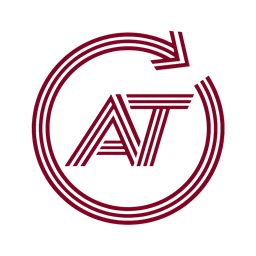
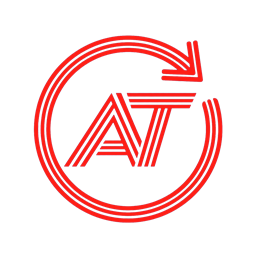
Button update
Made the button's logo more bright

Changed region(s): [[0.125, 0.0938, 0.9062, 0.9062]]

diff --git a/CHANGELOG.md b/CHANGELOG.md
@@ -2,7 +2,8 @@
 
 ## 2.2.0
 
-- Added the supplied Archviz360 logo as the 360 Export button icon.
+- Added the supplied high-contrast red Archviz360 logo as the 360 Export
+  button icon.
 - Added an independent toolbar that can be moved, floated, or docked on any
   side of the IngeTrazo window.
 - The toolbar button opens and focuses the 360 Export panel.
